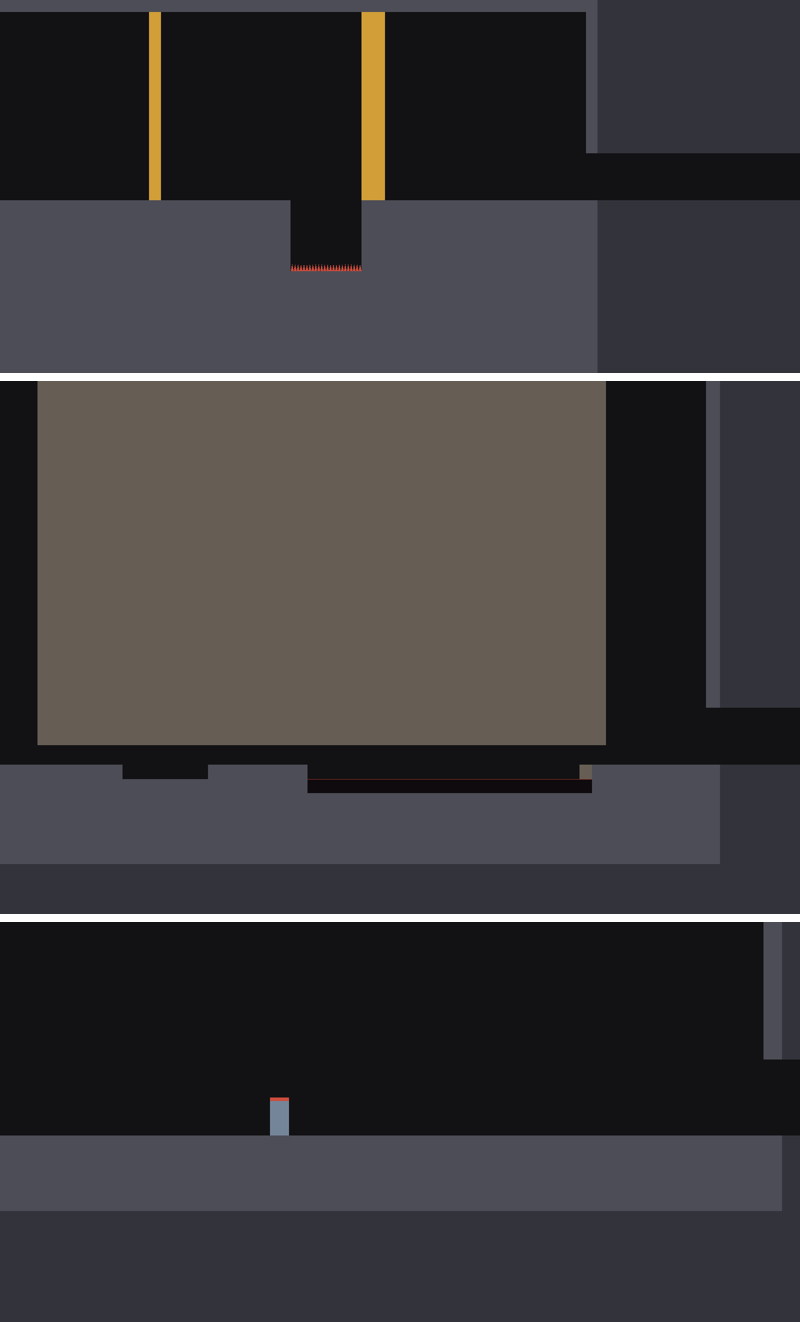
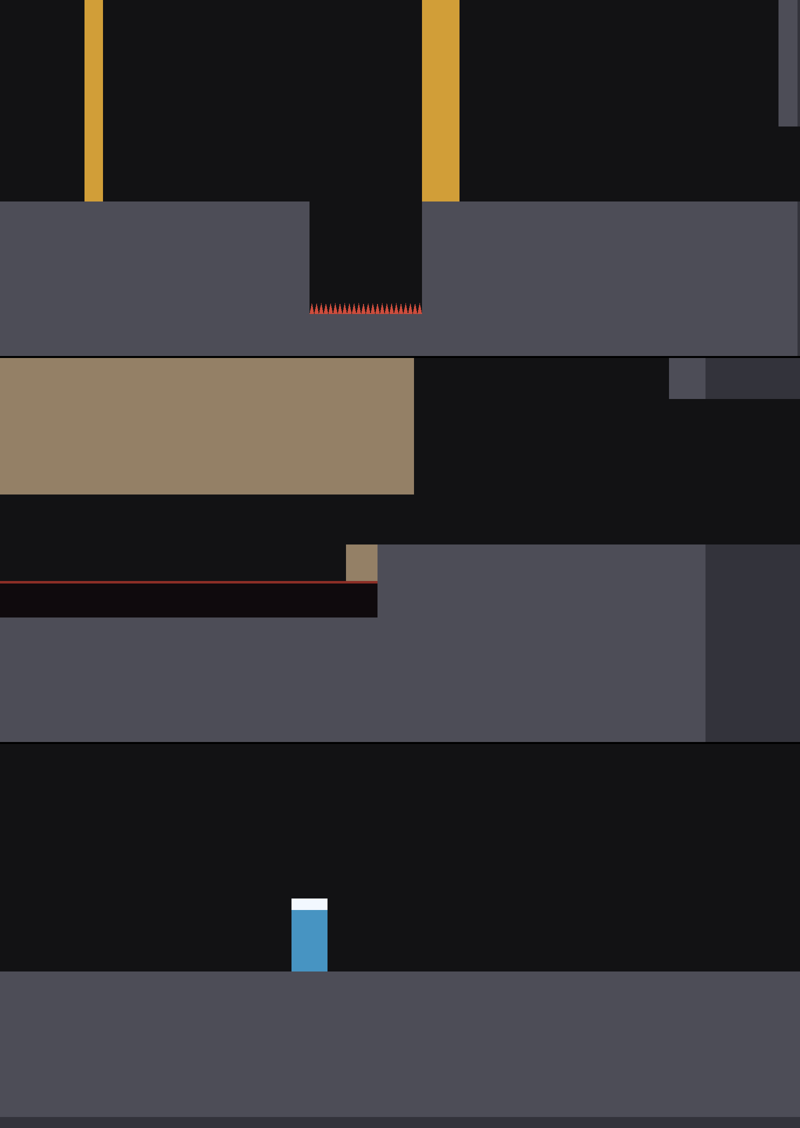
Box colours legible: bell strike mark pale and 10 u (not the spikes' red), boxes lighter than their walls, cling=0 wax/bell show side strips; legibility floors tested (BUILD.md s10 readability; CLAUDE.md rule 6 colours in content/feedback.tres)
Simulation untouched. Checklist: Phase 1 readability lines, none changed.

Claude-Session: https://claude.ai/code/session_01W19BhohaDCqzNUvUUykRxy

diff --git a/PROGRESS.md b/PROGRESS.md
@@ -105,7 +105,7 @@ Applicability to Phase 1 is decided per line. "No" lines depend on systems that 
 
 What to play (Windows or Linux with a display; `godot --path .` boots zone 1 room 01 with the Kindle Votive (`-- --room=sandbox` for the sandbox's three dummies); add `-- --lighting=pitch` for the Pitch stand-in; F3 shows the overlay, F4 pauses, F5 steps one tick, F6 ten):
 
-- **Grey-box colours (what the walls mean).** The purple-grey blocks were every solid box drawn alike, whatever it did; boxes now read by function (`docs/feel_log/2026-10-20-box-colours.png`: room 12's wax, room 07's smooth roof, room 09's bell). Tiles: dark blue-grey wall (clingable); brown-grey wall (smooth, no cling); a thin pale-grey strip (one-way platform, drop through it); small red teeth (spikes); near-black with a dark-red lip (a pit); lighter grey around the room (the solid beyond its edge); near-black air. Boxes: blue-grey close to the wall (a plain box, clingable); brown-grey (a smooth box, `cling=0`: room 07's low roof and its ledge); amber (wax: a Kindle-dash burns it); steel blue with a red strip on top (a bell: strike down on it to bounce). The box colours are `box_*` in `content/feedback.tres`; the tile colours are consts in `game/rooms/room_view.gd`. Zone 1 has no boxes in room 04 (rooms 07, 09, 12 and the sandbox have them).
+- **Grey-box colours (what the walls mean).** The purple-grey blocks were every solid box drawn alike, whatever it did; boxes now read by function (`docs/feel_log/2026-10-20-box-colours.png`: room 12's wax, room 07's smooth roof, room 09's bell). Tiles: dark blue-grey wall (clingable); brown-grey wall (smooth, no cling); a thin pale-grey strip (one-way platform, drop through it); small red teeth (spikes); near-black with a dark-red lip (a pit); lighter grey around the room (the solid beyond its edge); near-black air. Boxes (each lighter than its wall, so a box against a wall is told from it): light blue-grey (a plain box, clingable); tan (a smooth box, `cling=0`: room 07's low roof and its ledge); amber (wax: a Kindle-dash burns it); cyan steel with a pale-white strip 10 u thick on top (a bell: strike down on it to bounce; the strip is deliberately not the spikes' red). A wax or bell box with `cling=0` has a 4 u tan strip down each side. Legibility floors (colour gaps, brightness gap to the wall, mark not red) are in `tests/unit/game/test_views.gd`. The box colours are `box_*` in `content/feedback.tres`; the tile colours are consts in `game/rooms/room_view.gd`. Zone 1 has no boxes in room 04 (rooms 07, 09, 12 and the sandbox have them).
 - **Movement.** Tap and hold jumps (is the release a decision or a cut? holds of 1 to 4 f are identical); the wall-kick climb in room 05 (held, tapped, mashed: any sticking, any press that does nothing?); a dash-jump with the jump pressed with the dash, or on its 2nd to 4th frame (it comes out up to 4 frames late: if that feels late the lever is `dash_jump_first`); releasing the stick on a dash-jump sheds the speed over about 22 frames (carry it?); lips and staircases (does the 3-frame ease of a corner nudge read as invisible? up a dashed staircase the body sits inside the steps for two frames); the ramp crest in `test/ramp45_crest_lip` (a 5 u step eased: step or bump?).
 - **Camera.** The questions in `docs/feel_log/2026-10-17-task4-camera.md`; a wall-jump off a long fall (the view should settle then follow the fall down); a death far from the spawn (the cut is instant, the fade is not built); toss up room 4's post column and bounce on the next post (no kick); a door at a run and at a dash (is a cut right, or a few frames of fade?).
 - **Combat.** Strike, parry and Mend on the sandbox's three dummies (one standing, one white swing every second, one red). Look and feel for: three rising impacts in the chain (2, 2 and 4 f of hitstop); the 12 f knockback; the side 1 recoil (8 f at 60 u/s, perhaps too small: `recoil_frames`); whether an armored hit should skip hitstop; the Charged strike's release (late?); Mend standing still 50 f (should a walk interrupt it?); the kill ember's 11 Flame; take a hit, a hazard and the red swing with the overlay off and say what hit you; red and white at Pitch with flashes at 0 (shape cues only). Listen for the heal against the parry chime and Radiance's bloom (grey-box tones; real audio is Phase 2).
